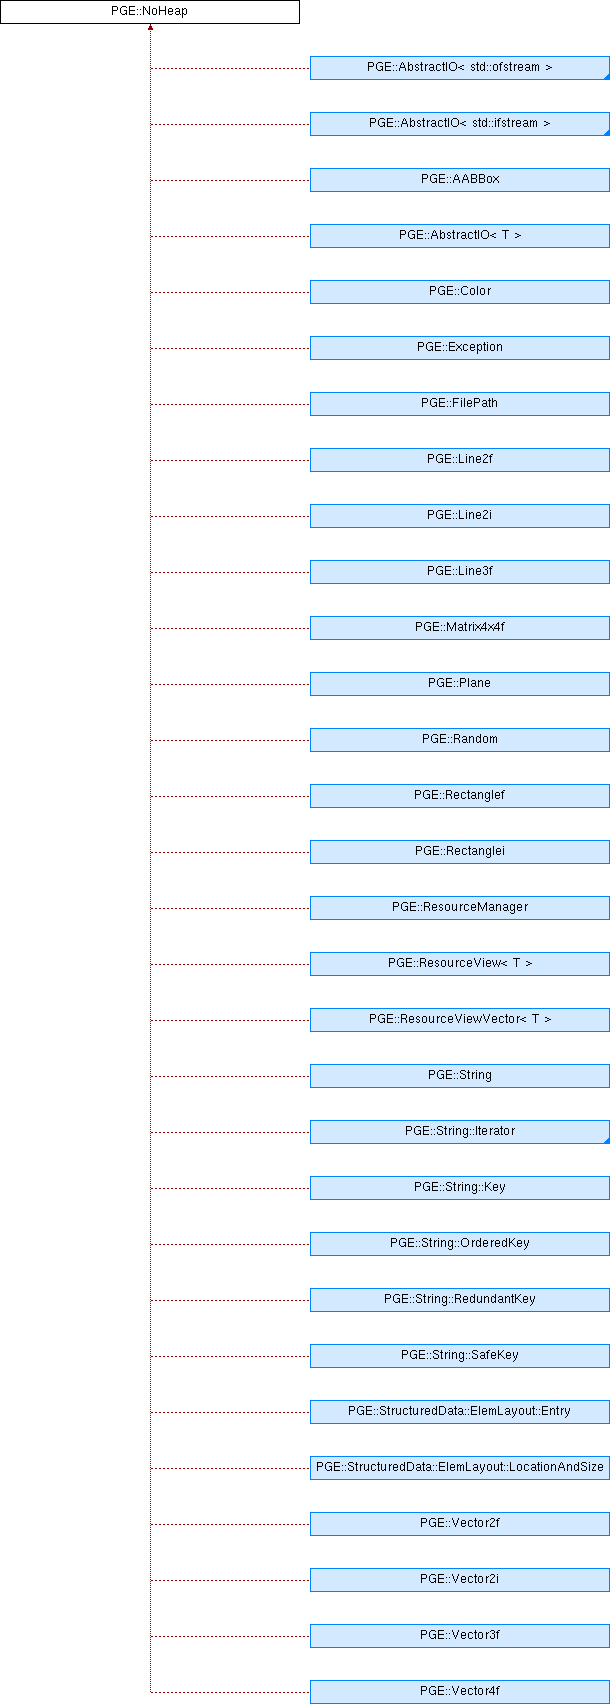
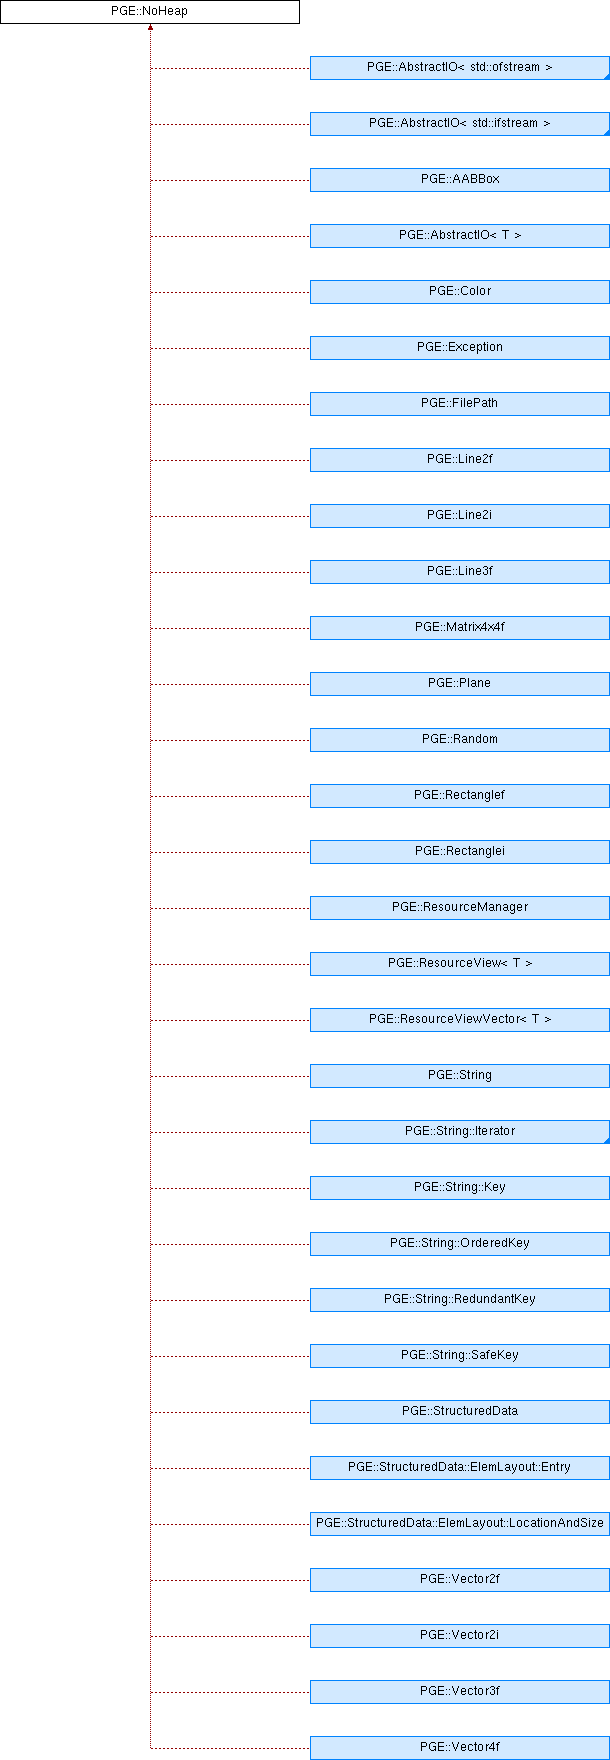
Update gh-pages to output generated at bec6a00

Changed region(s): [[0.4984, 0.0311, 1.0, 0.9953], [0.1869, 0.0, 0.2492, 0.0311]]

diff --git a/hierarchy.html b/hierarchy.html
@@ -124,32 +124,32 @@ $(document).ready(function(){initNavTree('hierarchy.html',''); initResizable(); 
 <tr id="row_4_21_"><td class="entry"><span style="width:32px;display:inline-block;">&#160;</span><span class="icona"><span class="icon">C</span></span><a class="el" href="struct_p_g_e_1_1_string_1_1_ordered_key.html" target="_self">&#x202A;PGE::String::OrderedKey</a></td><td class="desc"></td></tr>
 <tr id="row_4_22_" class="even"><td class="entry"><span style="width:32px;display:inline-block;">&#160;</span><span class="icona"><span class="icon">C</span></span><a class="el" href="struct_p_g_e_1_1_string_1_1_redundant_key.html" target="_self">&#x202A;PGE::String::RedundantKey</a></td><td class="desc"></td></tr>
 <tr id="row_4_23_"><td class="entry"><span style="width:32px;display:inline-block;">&#160;</span><span class="icona"><span class="icon">C</span></span><a class="el" href="struct_p_g_e_1_1_string_1_1_safe_key.html" target="_self">&#x202A;PGE::String::SafeKey</a></td><td class="desc"></td></tr>
-<tr id="row_4_24_" class="even"><td class="entry"><span style="width:32px;display:inline-block;">&#160;</span><span class="icona"><span class="icon">C</span></span><a class="el" href="struct_p_g_e_1_1_structured_data_1_1_elem_layout_1_1_entry.html" target="_self">&#x202A;PGE::StructuredData::ElemLayout::Entry</a></td><td class="desc"></td></tr>
-<tr id="row_4_25_"><td class="entry"><span style="width:32px;display:inline-block;">&#160;</span><span class="icona"><span class="icon">C</span></span><a class="el" href="struct_p_g_e_1_1_structured_data_1_1_elem_layout_1_1_location_and_size.html" target="_self">&#x202A;PGE::StructuredData::ElemLayout::LocationAndSize</a></td><td class="desc"></td></tr>
-<tr id="row_4_26_" class="even"><td class="entry"><span style="width:32px;display:inline-block;">&#160;</span><span class="icona"><span class="icon">C</span></span><a class="el" href="class_p_g_e_1_1_vector2f.html" target="_self">&#x202A;PGE::Vector2f</a></td><td class="desc"></td></tr>
-<tr id="row_4_27_"><td class="entry"><span style="width:32px;display:inline-block;">&#160;</span><span class="icona"><span class="icon">C</span></span><a class="el" href="class_p_g_e_1_1_vector2i.html" target="_self">&#x202A;PGE::Vector2i</a></td><td class="desc"></td></tr>
-<tr id="row_4_28_" class="even"><td class="entry"><span style="width:32px;display:inline-block;">&#160;</span><span class="icona"><span class="icon">C</span></span><a class="el" href="class_p_g_e_1_1_vector3f.html" target="_self">&#x202A;PGE::Vector3f</a></td><td class="desc"></td></tr>
-<tr id="row_4_29_"><td class="entry"><span style="width:32px;display:inline-block;">&#160;</span><span class="icona"><span class="icon">C</span></span><a class="el" href="class_p_g_e_1_1_vector4f.html" target="_self">&#x202A;PGE::Vector4f</a></td><td class="desc"></td></tr>
-<tr id="row_5_" class="even"><td class="entry"><span style="width:0px;display:inline-block;">&#160;</span><span id="arr_5_" class="arrow" onclick="toggleFolder('5_')">&#9660;</span><span class="icona"><span class="icon">C</span></span><a class="el" href="class_polymorphic_heap.html" target="_self">&#x202A;PolymorphicHeap</a></td><td class="desc"></td></tr>
-<tr id="row_5_0_"><td class="entry"><span style="width:32px;display:inline-block;">&#160;</span><span class="icona"><span class="icon">C</span></span><a class="el" href="class_p_g_e_1_1_controller.html" target="_self">&#x202A;PGE::Controller</a></td><td class="desc"></td></tr>
-<tr id="row_5_1_" class="even"><td class="entry"><span style="width:32px;display:inline-block;">&#160;</span><span class="icona"><span class="icon">C</span></span><a class="el" href="class_p_g_e_1_1_graphics.html" target="_self">&#x202A;PGE::Graphics</a></td><td class="desc">&#x202A;Main class for managing everything graphics related </td></tr>
-<tr id="row_5_2_"><td class="entry"><span style="width:16px;display:inline-block;">&#160;</span><span id="arr_5_2_" class="arrow" onclick="toggleFolder('5_2_')">&#9660;</span><span class="icona"><span class="icon">C</span></span><a class="el" href="class_p_g_e_1_1_input.html" target="_self">&#x202A;PGE::Input</a></td><td class="desc"></td></tr>
-<tr id="row_5_2_0_" class="even"><td class="entry"><span style="width:48px;display:inline-block;">&#160;</span><span class="icona"><span class="icon">C</span></span><a class="el" href="class_p_g_e_1_1_controller_input.html" target="_self">&#x202A;PGE::ControllerInput</a></td><td class="desc"></td></tr>
-<tr id="row_5_2_1_"><td class="entry"><span style="width:48px;display:inline-block;">&#160;</span><span class="icona"><span class="icon">C</span></span><a class="el" href="class_p_g_e_1_1_keyboard_input.html" target="_self">&#x202A;PGE::KeyboardInput</a></td><td class="desc"></td></tr>
-<tr id="row_5_2_2_" class="even"><td class="entry"><span style="width:48px;display:inline-block;">&#160;</span><span class="icona"><span class="icon">C</span></span><a class="el" href="class_p_g_e_1_1_mouse_input.html" target="_self">&#x202A;PGE::MouseInput</a></td><td class="desc"></td></tr>
-<tr id="row_5_3_"><td class="entry"><span style="width:32px;display:inline-block;">&#160;</span><span class="icona"><span class="icon">C</span></span><a class="el" href="class_p_g_e_1_1_input_manager.html" target="_self">&#x202A;PGE::InputManager</a></td><td class="desc"></td></tr>
-<tr id="row_5_4_" class="even"><td class="entry"><span style="width:32px;display:inline-block;">&#160;</span><span class="icona"><span class="icon">C</span></span><a class="el" href="class_p_g_e_1_1_mesh.html" target="_self">&#x202A;PGE::Mesh</a></td><td class="desc"></td></tr>
-<tr id="row_5_5_"><td class="entry"><span style="width:16px;display:inline-block;">&#160;</span><span id="arr_5_5_" class="arrow" onclick="toggleFolder('5_5_')">&#9660;</span><span class="icona"><span class="icon">C</span></span><a class="el" href="class_p_g_e_1_1_resource_base.html" target="_self">&#x202A;PGE::ResourceBase</a></td><td class="desc"></td></tr>
-<tr id="row_5_5_0_" class="even"><td class="entry"><span style="width:32px;display:inline-block;">&#160;</span><span id="arr_5_5_0_" class="arrow" onclick="toggleFolder('5_5_0_')">&#9660;</span><span class="icona"><span class="icon">C</span></span><a class="el" href="class_p_g_e_1_1_resource.html" target="_self">&#x202A;PGE::Resource&lt; T * &gt;</a></td><td class="desc"></td></tr>
-<tr id="row_5_5_0_0_"><td class="entry"><span style="width:64px;display:inline-block;">&#160;</span><span class="icona"><span class="icon">C</span></span><a class="el" href="class_p_g_e_1_1_raw_wrapper.html" target="_self">&#x202A;PGE::RawWrapper&lt; T &gt;</a></td><td class="desc"></td></tr>
-<tr id="row_5_5_1_" class="even"><td class="entry"><span style="width:48px;display:inline-block;">&#160;</span><span class="icona"><span class="icon">C</span></span><a class="el" href="class_p_g_e_1_1_resource.html" target="_self">&#x202A;PGE::Resource&lt; SysEvents::Subscriber * &gt;</a></td><td class="desc"></td></tr>
-<tr id="row_5_5_2_"><td class="entry"><span style="width:48px;display:inline-block;">&#160;</span><span class="icona"><span class="icon">C</span></span><a class="el" href="class_p_g_e_1_1_resource.html" target="_self">&#x202A;PGE::Resource&lt; T &gt;</a></td><td class="desc"></td></tr>
-<tr id="row_5_6_" class="even"><td class="entry"><span style="width:32px;display:inline-block;">&#160;</span><span class="icona"><span class="icon">C</span></span><a class="el" href="class_p_g_e_1_1_shader.html" target="_self">&#x202A;PGE::Shader</a></td><td class="desc"></td></tr>
-<tr id="row_5_7_"><td class="entry"><span style="width:32px;display:inline-block;">&#160;</span><span class="icona"><span class="icon">C</span></span><a class="el" href="class_p_g_e_1_1_texture.html" target="_self">&#x202A;PGE::Texture</a></td><td class="desc"></td></tr>
-<tr id="row_6_" class="even"><td class="entry"><span style="width:16px;display:inline-block;">&#160;</span><span class="icona"><span class="icon">C</span></span><a class="el" href="class_p_g_e_1_1_structured_data.html" target="_self">&#x202A;PGE::StructuredData</a></td><td class="desc"></td></tr>
-<tr id="row_7_"><td class="entry"><span style="width:16px;display:inline-block;">&#160;</span><span class="icona"><span class="icon">C</span></span><a class="el" href="class_p_g_e_1_1_sys_events_1_1_subscriber.html" target="_self">&#x202A;PGE::SysEvents::Subscriber</a></td><td class="desc"></td></tr>
-<tr id="row_8_" class="even"><td class="entry"><span style="width:16px;display:inline-block;">&#160;</span><span class="icona"><span class="icon">C</span></span><a class="el" href="class_p_g_e_1_1_sys_events.html" target="_self">&#x202A;PGE::SysEvents</a></td><td class="desc">&#x202A;Class that is required for dealing with system events </td></tr>
-<tr id="row_9_"><td class="entry"><span style="width:16px;display:inline-block;">&#160;</span><span class="icona"><span class="icon">C</span></span><a class="el" href="struct_p_g_e_1_1_mesh_1_1_triangle.html" target="_self">&#x202A;PGE::Mesh::Triangle</a></td><td class="desc"></td></tr>
+<tr id="row_4_24_" class="even"><td class="entry"><span style="width:32px;display:inline-block;">&#160;</span><span class="icona"><span class="icon">C</span></span><a class="el" href="class_p_g_e_1_1_structured_data.html" target="_self">&#x202A;PGE::StructuredData</a></td><td class="desc"></td></tr>
+<tr id="row_4_25_"><td class="entry"><span style="width:32px;display:inline-block;">&#160;</span><span class="icona"><span class="icon">C</span></span><a class="el" href="struct_p_g_e_1_1_structured_data_1_1_elem_layout_1_1_entry.html" target="_self">&#x202A;PGE::StructuredData::ElemLayout::Entry</a></td><td class="desc"></td></tr>
+<tr id="row_4_26_" class="even"><td class="entry"><span style="width:32px;display:inline-block;">&#160;</span><span class="icona"><span class="icon">C</span></span><a class="el" href="struct_p_g_e_1_1_structured_data_1_1_elem_layout_1_1_location_and_size.html" target="_self">&#x202A;PGE::StructuredData::ElemLayout::LocationAndSize</a></td><td class="desc"></td></tr>
+<tr id="row_4_27_"><td class="entry"><span style="width:32px;display:inline-block;">&#160;</span><span class="icona"><span class="icon">C</span></span><a class="el" href="class_p_g_e_1_1_vector2f.html" target="_self">&#x202A;PGE::Vector2f</a></td><td class="desc"></td></tr>
+<tr id="row_4_28_" class="even"><td class="entry"><span style="width:32px;display:inline-block;">&#160;</span><span class="icona"><span class="icon">C</span></span><a class="el" href="class_p_g_e_1_1_vector2i.html" target="_self">&#x202A;PGE::Vector2i</a></td><td class="desc"></td></tr>
+<tr id="row_4_29_"><td class="entry"><span style="width:32px;display:inline-block;">&#160;</span><span class="icona"><span class="icon">C</span></span><a class="el" href="class_p_g_e_1_1_vector3f.html" target="_self">&#x202A;PGE::Vector3f</a></td><td class="desc"></td></tr>
+<tr id="row_4_30_" class="even"><td class="entry"><span style="width:32px;display:inline-block;">&#160;</span><span class="icona"><span class="icon">C</span></span><a class="el" href="class_p_g_e_1_1_vector4f.html" target="_self">&#x202A;PGE::Vector4f</a></td><td class="desc"></td></tr>
+<tr id="row_5_"><td class="entry"><span style="width:0px;display:inline-block;">&#160;</span><span id="arr_5_" class="arrow" onclick="toggleFolder('5_')">&#9660;</span><span class="icona"><span class="icon">C</span></span><a class="el" href="class_polymorphic_heap.html" target="_self">&#x202A;PolymorphicHeap</a></td><td class="desc"></td></tr>
+<tr id="row_5_0_" class="even"><td class="entry"><span style="width:32px;display:inline-block;">&#160;</span><span class="icona"><span class="icon">C</span></span><a class="el" href="class_p_g_e_1_1_controller.html" target="_self">&#x202A;PGE::Controller</a></td><td class="desc"></td></tr>
+<tr id="row_5_1_"><td class="entry"><span style="width:32px;display:inline-block;">&#160;</span><span class="icona"><span class="icon">C</span></span><a class="el" href="class_p_g_e_1_1_graphics.html" target="_self">&#x202A;PGE::Graphics</a></td><td class="desc">&#x202A;Main class for managing everything graphics related </td></tr>
+<tr id="row_5_2_" class="even"><td class="entry"><span style="width:16px;display:inline-block;">&#160;</span><span id="arr_5_2_" class="arrow" onclick="toggleFolder('5_2_')">&#9660;</span><span class="icona"><span class="icon">C</span></span><a class="el" href="class_p_g_e_1_1_input.html" target="_self">&#x202A;PGE::Input</a></td><td class="desc"></td></tr>
+<tr id="row_5_2_0_"><td class="entry"><span style="width:48px;display:inline-block;">&#160;</span><span class="icona"><span class="icon">C</span></span><a class="el" href="class_p_g_e_1_1_controller_input.html" target="_self">&#x202A;PGE::ControllerInput</a></td><td class="desc"></td></tr>
+<tr id="row_5_2_1_" class="even"><td class="entry"><span style="width:48px;display:inline-block;">&#160;</span><span class="icona"><span class="icon">C</span></span><a class="el" href="class_p_g_e_1_1_keyboard_input.html" target="_self">&#x202A;PGE::KeyboardInput</a></td><td class="desc"></td></tr>
+<tr id="row_5_2_2_"><td class="entry"><span style="width:48px;display:inline-block;">&#160;</span><span class="icona"><span class="icon">C</span></span><a class="el" href="class_p_g_e_1_1_mouse_input.html" target="_self">&#x202A;PGE::MouseInput</a></td><td class="desc"></td></tr>
+<tr id="row_5_3_" class="even"><td class="entry"><span style="width:32px;display:inline-block;">&#160;</span><span class="icona"><span class="icon">C</span></span><a class="el" href="class_p_g_e_1_1_input_manager.html" target="_self">&#x202A;PGE::InputManager</a></td><td class="desc"></td></tr>
+<tr id="row_5_4_"><td class="entry"><span style="width:32px;display:inline-block;">&#160;</span><span class="icona"><span class="icon">C</span></span><a class="el" href="class_p_g_e_1_1_mesh.html" target="_self">&#x202A;PGE::Mesh</a></td><td class="desc"></td></tr>
+<tr id="row_5_5_" class="even"><td class="entry"><span style="width:16px;display:inline-block;">&#160;</span><span id="arr_5_5_" class="arrow" onclick="toggleFolder('5_5_')">&#9660;</span><span class="icona"><span class="icon">C</span></span><a class="el" href="class_p_g_e_1_1_resource_base.html" target="_self">&#x202A;PGE::ResourceBase</a></td><td class="desc"></td></tr>
+<tr id="row_5_5_0_"><td class="entry"><span style="width:32px;display:inline-block;">&#160;</span><span id="arr_5_5_0_" class="arrow" onclick="toggleFolder('5_5_0_')">&#9660;</span><span class="icona"><span class="icon">C</span></span><a class="el" href="class_p_g_e_1_1_resource.html" target="_self">&#x202A;PGE::Resource&lt; T * &gt;</a></td><td class="desc"></td></tr>
+<tr id="row_5_5_0_0_" class="even"><td class="entry"><span style="width:64px;display:inline-block;">&#160;</span><span class="icona"><span class="icon">C</span></span><a class="el" href="class_p_g_e_1_1_raw_wrapper.html" target="_self">&#x202A;PGE::RawWrapper&lt; T &gt;</a></td><td class="desc"></td></tr>
+<tr id="row_5_5_1_"><td class="entry"><span style="width:48px;display:inline-block;">&#160;</span><span class="icona"><span class="icon">C</span></span><a class="el" href="class_p_g_e_1_1_resource.html" target="_self">&#x202A;PGE::Resource&lt; SysEvents::Subscriber * &gt;</a></td><td class="desc"></td></tr>
+<tr id="row_5_5_2_" class="even"><td class="entry"><span style="width:48px;display:inline-block;">&#160;</span><span class="icona"><span class="icon">C</span></span><a class="el" href="class_p_g_e_1_1_resource.html" target="_self">&#x202A;PGE::Resource&lt; T &gt;</a></td><td class="desc"></td></tr>
+<tr id="row_5_6_"><td class="entry"><span style="width:32px;display:inline-block;">&#160;</span><span class="icona"><span class="icon">C</span></span><a class="el" href="class_p_g_e_1_1_shader.html" target="_self">&#x202A;PGE::Shader</a></td><td class="desc"></td></tr>
+<tr id="row_5_7_" class="even"><td class="entry"><span style="width:32px;display:inline-block;">&#160;</span><span class="icona"><span class="icon">C</span></span><a class="el" href="class_p_g_e_1_1_texture.html" target="_self">&#x202A;PGE::Texture</a></td><td class="desc"></td></tr>
+<tr id="row_6_"><td class="entry"><span style="width:16px;display:inline-block;">&#160;</span><span class="icona"><span class="icon">C</span></span><a class="el" href="class_p_g_e_1_1_sys_events_1_1_subscriber.html" target="_self">&#x202A;PGE::SysEvents::Subscriber</a></td><td class="desc"></td></tr>
+<tr id="row_7_" class="even"><td class="entry"><span style="width:16px;display:inline-block;">&#160;</span><span class="icona"><span class="icon">C</span></span><a class="el" href="class_p_g_e_1_1_sys_events.html" target="_self">&#x202A;PGE::SysEvents</a></td><td class="desc">&#x202A;Class that is required for dealing with system events </td></tr>
+<tr id="row_8_"><td class="entry"><span style="width:16px;display:inline-block;">&#160;</span><span class="icona"><span class="icon">C</span></span><a class="el" href="struct_p_g_e_1_1_mesh_1_1_triangle.html" target="_self">&#x202A;PGE::Mesh::Triangle</a></td><td class="desc"></td></tr>
 </table>
 </div><!-- directory -->
 </div><!-- contents -->

diff --git a/class_p_g_e_1_1_no_heap.html b/class_p_g_e_1_1_no_heap.html
@@ -126,12 +126,13 @@ Inheritance diagram for PGE::NoHeap:</div>
 <area href="struct_p_g_e_1_1_string_1_1_ordered_key.html" alt="PGE::String::OrderedKey" shape="rect" coords="310,1232,610,1256"/>
 <area href="struct_p_g_e_1_1_string_1_1_redundant_key.html" alt="PGE::String::RedundantKey" shape="rect" coords="310,1288,610,1312"/>
 <area href="struct_p_g_e_1_1_string_1_1_safe_key.html" alt="PGE::String::SafeKey" shape="rect" coords="310,1344,610,1368"/>
-<area href="struct_p_g_e_1_1_structured_data_1_1_elem_layout_1_1_entry.html" alt="PGE::StructuredData::ElemLayout::Entry" shape="rect" coords="310,1400,610,1424"/>
-<area href="struct_p_g_e_1_1_structured_data_1_1_elem_layout_1_1_location_and_size.html" alt="PGE::StructuredData::ElemLayout::LocationAndSize" shape="rect" coords="310,1456,610,1480"/>
-<area href="class_p_g_e_1_1_vector2f.html" alt="PGE::Vector2f" shape="rect" coords="310,1512,610,1536"/>
-<area href="class_p_g_e_1_1_vector2i.html" alt="PGE::Vector2i" shape="rect" coords="310,1568,610,1592"/>
-<area href="class_p_g_e_1_1_vector3f.html" alt="PGE::Vector3f" shape="rect" coords="310,1624,610,1648"/>
-<area href="class_p_g_e_1_1_vector4f.html" alt="PGE::Vector4f" shape="rect" coords="310,1680,610,1704"/>
+<area href="class_p_g_e_1_1_structured_data.html" alt="PGE::StructuredData" shape="rect" coords="310,1400,610,1424"/>
+<area href="struct_p_g_e_1_1_structured_data_1_1_elem_layout_1_1_entry.html" alt="PGE::StructuredData::ElemLayout::Entry" shape="rect" coords="310,1456,610,1480"/>
+<area href="struct_p_g_e_1_1_structured_data_1_1_elem_layout_1_1_location_and_size.html" alt="PGE::StructuredData::ElemLayout::LocationAndSize" shape="rect" coords="310,1512,610,1536"/>
+<area href="class_p_g_e_1_1_vector2f.html" alt="PGE::Vector2f" shape="rect" coords="310,1568,610,1592"/>
+<area href="class_p_g_e_1_1_vector2i.html" alt="PGE::Vector2i" shape="rect" coords="310,1624,610,1648"/>
+<area href="class_p_g_e_1_1_vector3f.html" alt="PGE::Vector3f" shape="rect" coords="310,1680,610,1704"/>
+<area href="class_p_g_e_1_1_vector4f.html" alt="PGE::Vector4f" shape="rect" coords="310,1736,610,1760"/>
   </map>
 </div></div>
 <table class="memberdecls">

diff --git a/navtreeindex1.js b/navtreeindex1.js
@@ -1,5 +1,11 @@
 var NAVTREEINDEX1 =
 {
+"class_p_g_e_1_1_keyboard_input.html#adbed6f81de05dbca08de769ab39f6046a1798e8c3621ca53d9e3a80d257306000":[1,0,0,14,0,33],
+"class_p_g_e_1_1_keyboard_input.html#adbed6f81de05dbca08de769ab39f6046a1a43d08a7e0c8e893b8baa314d7b8b64":[1,0,0,14,0,237],
+"class_p_g_e_1_1_keyboard_input.html#adbed6f81de05dbca08de769ab39f6046a1a9c94725005bc4759507db8acc8da33":[1,0,0,14,0,200],
+"class_p_g_e_1_1_keyboard_input.html#adbed6f81de05dbca08de769ab39f6046a1faf42f2823f184eb2c9f0dffe5d73f2":[1,0,0,14,0,76],
+"class_p_g_e_1_1_keyboard_input.html#adbed6f81de05dbca08de769ab39f6046a201672136eb9c552fa4eafd962112f70":[1,0,0,14,0,163],
+"class_p_g_e_1_1_keyboard_input.html#adbed6f81de05dbca08de769ab39f6046a2027c027133e22c8929e2874dc44dd36":[1,0,0,14,0,146],
 "class_p_g_e_1_1_keyboard_input.html#adbed6f81de05dbca08de769ab39f6046a2048b6f76654f36424088e1e80772157":[1,0,0,14,0,176],
 "class_p_g_e_1_1_keyboard_input.html#adbed6f81de05dbca08de769ab39f6046a2091809ab6bdbc0a1975bf61d6099748":[1,0,0,14,0,107],
 "class_p_g_e_1_1_keyboard_input.html#adbed6f81de05dbca08de769ab39f6046a2140df7839a3713724b35168defcc975":[1,0,0,14,0,98],
@@ -243,11 +249,5 @@ var NAVTREEINDEX1 =
 "class_p_g_e_1_1_line2i.html#a790b0686b6b6fac6e07475a92c40df67":[1,0,0,21,5],
 "class_p_g_e_1_1_line2i.html#a83ee369796a21eeec68ca6ed84f9394f":[1,0,0,21,8],
 "class_p_g_e_1_1_line2i.html#ac7d261a46f58882a266d3ba0cf401660":[1,0,0,21,0],
-"class_p_g_e_1_1_line2i.html#adf82b4b8b9b8a6422420ee96675480f9":[1,0,0,21,1],
-"class_p_g_e_1_1_line3f.html":[1,0,0,22],
-"class_p_g_e_1_1_line3f.html#a023ecdd4e1e27a186c10e8e99dff535d":[1,0,0,22,2],
-"class_p_g_e_1_1_line3f.html#a071dabc5bde4eec4dcc29ba7ca6af42d":[1,0,0,22,1],
-"class_p_g_e_1_1_line3f.html#a519ae0e15d1cfbee4d64695f2a2ccfe7":[1,0,0,22,0],
-"class_p_g_e_1_1_line3f.html#aaa456945df77b05994b1d109b5a652c1":[1,0,0,22,3],
-"class_p_g_e_1_1_line3f.html#ac66cd2de34c786d027bbc224c894b719":[1,0,0,22,6]
+"class_p_g_e_1_1_line2i.html#adf82b4b8b9b8a6422420ee96675480f9":[1,0,0,21,1]
 };

diff --git a/navtreeindex0.js b/navtreeindex0.js
@@ -1,5 +1,11 @@
 var NAVTREEINDEX0 =
 {
+"":[0,0,0],
+"":[0,0,0,1],
+"":[0,0,0,5],
+"":[0,0,0,6],
+"":[0,0,0,2],
+"":[0,0,0,3],
 "_info_8h.html#ab264992192413957da66b6168415a195":[0,0,0,1,2],
 "_info_8h.html#ac9c27600b0c58b7ddfb7706d93236b21":[0,0,0,1,0],
 "_info_8h.html#ad8499f0d4183187ed9100256e61767f2":[0,0,0,1,1],
@@ -243,11 +249,5 @@ var NAVTREEINDEX0 =
 "class_p_g_e_1_1_keyboard_input.html#adbed6f81de05dbca08de769ab39f6046a10aa136bf2f1657253adc435e122302f":[1,0,0,14,0,99],
 "class_p_g_e_1_1_keyboard_input.html#adbed6f81de05dbca08de769ab39f6046a15f63aec610b5a7fb7e4c461e14e6ad9":[1,0,0,14,0,206],
 "class_p_g_e_1_1_keyboard_input.html#adbed6f81de05dbca08de769ab39f6046a167adc8fdf01590cd1039938285ce111":[1,0,0,14,0,211],
-"class_p_g_e_1_1_keyboard_input.html#adbed6f81de05dbca08de769ab39f6046a172fc103807f61ffc52e5e11cb5e449c":[1,0,0,14,0,205],
-"class_p_g_e_1_1_keyboard_input.html#adbed6f81de05dbca08de769ab39f6046a1798e8c3621ca53d9e3a80d257306000":[1,0,0,14,0,33],
-"class_p_g_e_1_1_keyboard_input.html#adbed6f81de05dbca08de769ab39f6046a1a43d08a7e0c8e893b8baa314d7b8b64":[1,0,0,14,0,237],
-"class_p_g_e_1_1_keyboard_input.html#adbed6f81de05dbca08de769ab39f6046a1a9c94725005bc4759507db8acc8da33":[1,0,0,14,0,200],
-"class_p_g_e_1_1_keyboard_input.html#adbed6f81de05dbca08de769ab39f6046a1faf42f2823f184eb2c9f0dffe5d73f2":[1,0,0,14,0,76],
-"class_p_g_e_1_1_keyboard_input.html#adbed6f81de05dbca08de769ab39f6046a201672136eb9c552fa4eafd962112f70":[1,0,0,14,0,163],
-"class_p_g_e_1_1_keyboard_input.html#adbed6f81de05dbca08de769ab39f6046a2027c027133e22c8929e2874dc44dd36":[1,0,0,14,0,146]
+"class_p_g_e_1_1_keyboard_input.html#adbed6f81de05dbca08de769ab39f6046a172fc103807f61ffc52e5e11cb5e449c":[1,0,0,14,0,205]
 };

diff --git a/navtreeindex3.js b/navtreeindex3.js
@@ -1,5 +1,11 @@
 var NAVTREEINDEX3 =
 {
+"class_p_g_e_1_1_string_1_1_iterator.html#a0a01d49424d201752380d5d439772fae":[1,0,0,39,0,13],
+"class_p_g_e_1_1_string_1_1_iterator.html#a22b26dbfa254c43e93e1e59e270f373e":[1,0,0,39,0,16],
+"class_p_g_e_1_1_string_1_1_iterator.html#a2a7a3f4de64c4e9cb4634b51526d6a00":[1,0,0,39,0,10],
+"class_p_g_e_1_1_string_1_1_iterator.html#a2c3d6f3a8c2b6f68b1230dfd54979b4d":[1,0,0,39,0,5],
+"class_p_g_e_1_1_string_1_1_iterator.html#a35f74aa0df1cd9abd219a3297fc6c7a2":[1,0,0,39,0,1],
+"class_p_g_e_1_1_string_1_1_iterator.html#a391ec7e4019b4b14af6e518aff420ff1":[1,0,0,39,0,23],
 "class_p_g_e_1_1_string_1_1_iterator.html#a42fc945180ef83f234fefee54e328ce3":[1,0,0,39,0,21],
 "class_p_g_e_1_1_string_1_1_iterator.html#a4438dd90dfe80ce9cfcb54c556acc6ad":[1,0,0,39,0,22],
 "class_p_g_e_1_1_string_1_1_iterator.html#a4894eedf014ed522ff21a3177fb621d6":[1,0,0,39,0,12],
@@ -243,11 +249,5 @@ var NAVTREEINDEX3 =
 "namespaces.html":[0,0],
 "pages.html":[],
 "struct_p_g_e_1_1_mesh_1_1_line.html":[1,0,0,10,0],
-"struct_p_g_e_1_1_mesh_1_1_line.html#a67322e03f78cd5517c9f08905f93ec3b":[1,0,0,10,0,0],
-"struct_p_g_e_1_1_mesh_1_1_line.html#a89ef6b4a527ccf4451c0324da02d771c":[1,0,0,10,0,1],
-"struct_p_g_e_1_1_mesh_1_1_triangle.html":[1,0,0,10,1],
-"struct_p_g_e_1_1_mesh_1_1_triangle.html#ace61ac2961217e7a1110b695ec35c3ea":[1,0,0,10,1,0],
-"struct_p_g_e_1_1_mesh_1_1_triangle.html#ae4b25f0c15f2f0a3884c6a3f1886fca3":[1,0,0,10,1,1],
-"struct_p_g_e_1_1_string_1_1_key.html":[1,0,0,39,1],
-"struct_p_g_e_1_1_string_1_1_key.html#aa73efe19d7bd272872874eaa69ab171a":[1,0,0,39,1,0]
+"struct_p_g_e_1_1_mesh_1_1_line.html#a67322e03f78cd5517c9f08905f93ec3b":[1,0,0,10,0,0]
 };

diff --git a/navtreeindex2.js b/navtreeindex2.js
@@ -1,5 +1,11 @@
 var NAVTREEINDEX2 =
 {
+"class_p_g_e_1_1_line3f.html":[1,0,0,22],
+"class_p_g_e_1_1_line3f.html#a023ecdd4e1e27a186c10e8e99dff535d":[1,0,0,22,2],
+"class_p_g_e_1_1_line3f.html#a071dabc5bde4eec4dcc29ba7ca6af42d":[1,0,0,22,1],
+"class_p_g_e_1_1_line3f.html#a519ae0e15d1cfbee4d64695f2a2ccfe7":[1,0,0,22,0],
+"class_p_g_e_1_1_line3f.html#aaa456945df77b05994b1d109b5a652c1":[1,0,0,22,3],
+"class_p_g_e_1_1_line3f.html#ac66cd2de34c786d027bbc224c894b719":[1,0,0,22,6],
 "class_p_g_e_1_1_line3f.html#ae11fcd9fc355e662942c1cbd32ee2293":[1,0,0,22,4],
 "class_p_g_e_1_1_line3f.html#aed768294ef3b45c3087a16c79918e1e8":[1,0,0,22,5],
 "class_p_g_e_1_1_material.html":[1,0,0,9],
@@ -243,11 +249,5 @@ var NAVTREEINDEX2 =
 "class_p_g_e_1_1_string.html#ae4ab9b20750544009ac31397aea954f0":[1,0,0,39,39],
 "class_p_g_e_1_1_string.html#ae893905a061d6a33712e4e5ba1df9d7a":[1,0,0,39,21],
 "class_p_g_e_1_1_string.html#af3d88a942ef0ed2ff1a115340bd1e41c":[1,0,0,39,41],
-"class_p_g_e_1_1_string_1_1_iterator.html":[1,0,0,39,0],
-"class_p_g_e_1_1_string_1_1_iterator.html#a0a01d49424d201752380d5d439772fae":[1,0,0,39,0,13],
-"class_p_g_e_1_1_string_1_1_iterator.html#a22b26dbfa254c43e93e1e59e270f373e":[1,0,0,39,0,16],
-"class_p_g_e_1_1_string_1_1_iterator.html#a2a7a3f4de64c4e9cb4634b51526d6a00":[1,0,0,39,0,10],
-"class_p_g_e_1_1_string_1_1_iterator.html#a2c3d6f3a8c2b6f68b1230dfd54979b4d":[1,0,0,39,0,5],
-"class_p_g_e_1_1_string_1_1_iterator.html#a35f74aa0df1cd9abd219a3297fc6c7a2":[1,0,0,39,0,1],
-"class_p_g_e_1_1_string_1_1_iterator.html#a391ec7e4019b4b14af6e518aff420ff1":[1,0,0,39,0,23]
+"class_p_g_e_1_1_string_1_1_iterator.html":[1,0,0,39,0]
 };

diff --git a/_structured_data_8h_source.html b/_structured_data_8h_source.html
@@ -103,7 +103,7 @@ $(document).ready(function(){initNavTree('_structured_data_8h_source.html',''); 
 <div class="line"><a name="l00013"></a><span class="lineno">   13</span>&#160; </div>
 <div class="line"><a name="l00014"></a><span class="lineno">   14</span>&#160;<span class="keyword">namespace </span>PGE {</div>
 <div class="line"><a name="l00015"></a><span class="lineno">   15</span>&#160; </div>
-<div class="line"><a name="l00016"></a><span class="lineno"><a class="line" href="class_p_g_e_1_1_structured_data.html">   16</a></span>&#160;<span class="keyword">class </span><a class="code" href="class_p_g_e_1_1_structured_data.html">StructuredData</a> {</div>
+<div class="line"><a name="l00016"></a><span class="lineno"><a class="line" href="class_p_g_e_1_1_structured_data.html">   16</a></span>&#160;<span class="keyword">class </span><a class="code" href="class_p_g_e_1_1_structured_data.html">StructuredData</a> : <a class="code" href="class_p_g_e_1_1_no_heap.html">NoHeap</a> {</div>
 <div class="line"><a name="l00017"></a><span class="lineno">   17</span>&#160;    <span class="keyword">public</span>:</div>
 <div class="line"><a name="l00018"></a><span class="lineno"><a class="line" href="class_p_g_e_1_1_structured_data_1_1_elem_layout.html">   18</a></span>&#160;        <span class="keyword">class </span><a class="code" href="class_p_g_e_1_1_structured_data_1_1_elem_layout.html">ElemLayout</a> {</div>
 <div class="line"><a name="l00019"></a><span class="lineno">   19</span>&#160;            <span class="keyword">public</span>:</div>

diff --git a/navtreeindex4.js b/navtreeindex4.js
@@ -1,5 +1,11 @@
 var NAVTREEINDEX4 =
 {
+"struct_p_g_e_1_1_mesh_1_1_line.html#a89ef6b4a527ccf4451c0324da02d771c":[1,0,0,10,0,1],
+"struct_p_g_e_1_1_mesh_1_1_triangle.html":[1,0,0,10,1],
+"struct_p_g_e_1_1_mesh_1_1_triangle.html#ace61ac2961217e7a1110b695ec35c3ea":[1,0,0,10,1,0],
+"struct_p_g_e_1_1_mesh_1_1_triangle.html#ae4b25f0c15f2f0a3884c6a3f1886fca3":[1,0,0,10,1,1],
+"struct_p_g_e_1_1_string_1_1_key.html":[1,0,0,39,1],
+"struct_p_g_e_1_1_string_1_1_key.html#aa73efe19d7bd272872874eaa69ab171a":[1,0,0,39,1,0],
 "struct_p_g_e_1_1_string_1_1_key.html#abba308ec34ff87956277ca693d4d3dc3":[1,0,0,39,1,1],
 "struct_p_g_e_1_1_string_1_1_key.html#aec22ceea9b91897bbcfdb5dc16a5f86a":[1,0,0,39,1,2],
 "struct_p_g_e_1_1_string_1_1_ordered_key.html":[1,0,0,39,2],
@@ -40,11 +46,5 @@ var NAVTREEINDEX4 =
 "struct_p_g_e_1_1_structured_data_1_1_elem_layout_1_1_location_and_size.html#a3fb77a26ba1a2145e815936b69e1f452":[1,0,0,40,0,1,0],
 "struct_p_g_e_1_1_structured_data_1_1_elem_layout_1_1_location_and_size.html#a5847d24695746b1c3ff8f259163225ac":[1,0,0,40,0,1,3],
 "struct_p_g_e_1_1_structured_data_1_1_elem_layout_1_1_location_and_size.html#a9ec7d6c5382451961eb551fad4b628f4":[1,0,0,40,0,1,1],
-"struct_p_g_e_1_1_structured_data_1_1_elem_layout_1_1_location_and_size.html#aa299ed7cf6d757359f32c7d24dc86c0d":[1,0,0,40,0,1,2],
-"":[0,0,0,6],
-"":[0,0,0,1],
-"":[0,0,0],
-"":[0,0,0,3],
-"":[0,0,0,2],
-"":[0,0,0,5]
+"struct_p_g_e_1_1_structured_data_1_1_elem_layout_1_1_location_and_size.html#aa299ed7cf6d757359f32c7d24dc86c0d":[1,0,0,40,0,1,2]
 };

diff --git a/hierarchy.js b/hierarchy.js
@@ -37,6 +37,7 @@ var hierarchy =
       [ "\u202APGE::String::OrderedKey", "struct_p_g_e_1_1_string_1_1_ordered_key.html", null ],
       [ "\u202APGE::String::RedundantKey", "struct_p_g_e_1_1_string_1_1_redundant_key.html", null ],
       [ "\u202APGE::String::SafeKey", "struct_p_g_e_1_1_string_1_1_safe_key.html", null ],
+      [ "\u202APGE::StructuredData", "class_p_g_e_1_1_structured_data.html", null ],
       [ "\u202APGE::StructuredData::ElemLayout::Entry", "struct_p_g_e_1_1_structured_data_1_1_elem_layout_1_1_entry.html", null ],
       [ "\u202APGE::StructuredData::ElemLayout::LocationAndSize", "struct_p_g_e_1_1_structured_data_1_1_elem_layout_1_1_location_and_size.html", null ],
       [ "\u202APGE::Vector2f", "class_p_g_e_1_1_vector2f.html", null ],
@@ -64,7 +65,6 @@ var hierarchy =
       [ "\u202APGE::Shader", "class_p_g_e_1_1_shader.html", null ],
       [ "\u202APGE::Texture", "class_p_g_e_1_1_texture.html", null ]
     ] ],
-    [ "\u202APGE::StructuredData", "class_p_g_e_1_1_structured_data.html", null ],
     [ "\u202APGE::SysEvents::Subscriber", "class_p_g_e_1_1_sys_events_1_1_subscriber.html", null ],
     [ "\u202APGE::SysEvents", "class_p_g_e_1_1_sys_events.html", null ],
     [ "\u202APGE::Mesh::Triangle", "struct_p_g_e_1_1_mesh_1_1_triangle.html", null ]

diff --git a/class_p_g_e_1_1_structured_data.html b/class_p_g_e_1_1_structured_data.html
@@ -92,6 +92,15 @@ $(document).ready(function(){initNavTree('class_p_g_e_1_1_structured_data.html',
 <div class="title">PGE::StructuredData Class Reference</div>  </div>
 </div><!--header-->
 <div class="contents">
+<div class="dynheader">
+Inheritance diagram for PGE::StructuredData:</div>
+<div class="dyncontent">
+ <div class="center">
+  <img src="class_p_g_e_1_1_structured_data.png" usemap="#PGE::StructuredData_map" alt=""/>
+  <map id="PGE::StructuredData_map" name="PGE::StructuredData_map">
+<area href="class_p_g_e_1_1_no_heap.html" title="&#x202A;A mixin class intended to prevent straightforward heap allocation of a class." alt="PGE::NoHeap" shape="rect" coords="0,0,128,24"/>
+  </map>
+</div></div>
 <table class="memberdecls">
 <tr class="heading"><td colspan="2"><h2 class="groupheader"><a name="nested-classes"></a>
 Classes</h2></td></tr>

diff --git a/navtreedata.js b/navtreedata.js
@@ -48,11 +48,11 @@ var NAVTREE =
 
 var NAVTREEINDEX =
 [
-"_info_8h.html#ab264992192413957da66b6168415a195",
-"class_p_g_e_1_1_keyboard_input.html#adbed6f81de05dbca08de769ab39f6046a2048b6f76654f36424088e1e80772157",
-"class_p_g_e_1_1_line3f.html#ae11fcd9fc355e662942c1cbd32ee2293",
-"class_p_g_e_1_1_string_1_1_iterator.html#a42fc945180ef83f234fefee54e328ce3",
-"struct_p_g_e_1_1_string_1_1_key.html#abba308ec34ff87956277ca693d4d3dc3"
+"",
+"class_p_g_e_1_1_keyboard_input.html#adbed6f81de05dbca08de769ab39f6046a1798e8c3621ca53d9e3a80d257306000",
+"class_p_g_e_1_1_line3f.html",
+"class_p_g_e_1_1_string_1_1_iterator.html#a0a01d49424d201752380d5d439772fae",
+"struct_p_g_e_1_1_mesh_1_1_line.html#a89ef6b4a527ccf4451c0324da02d771c"
 ];
 
 var SYNCONMSG = 'click to disable panel synchronisation';
